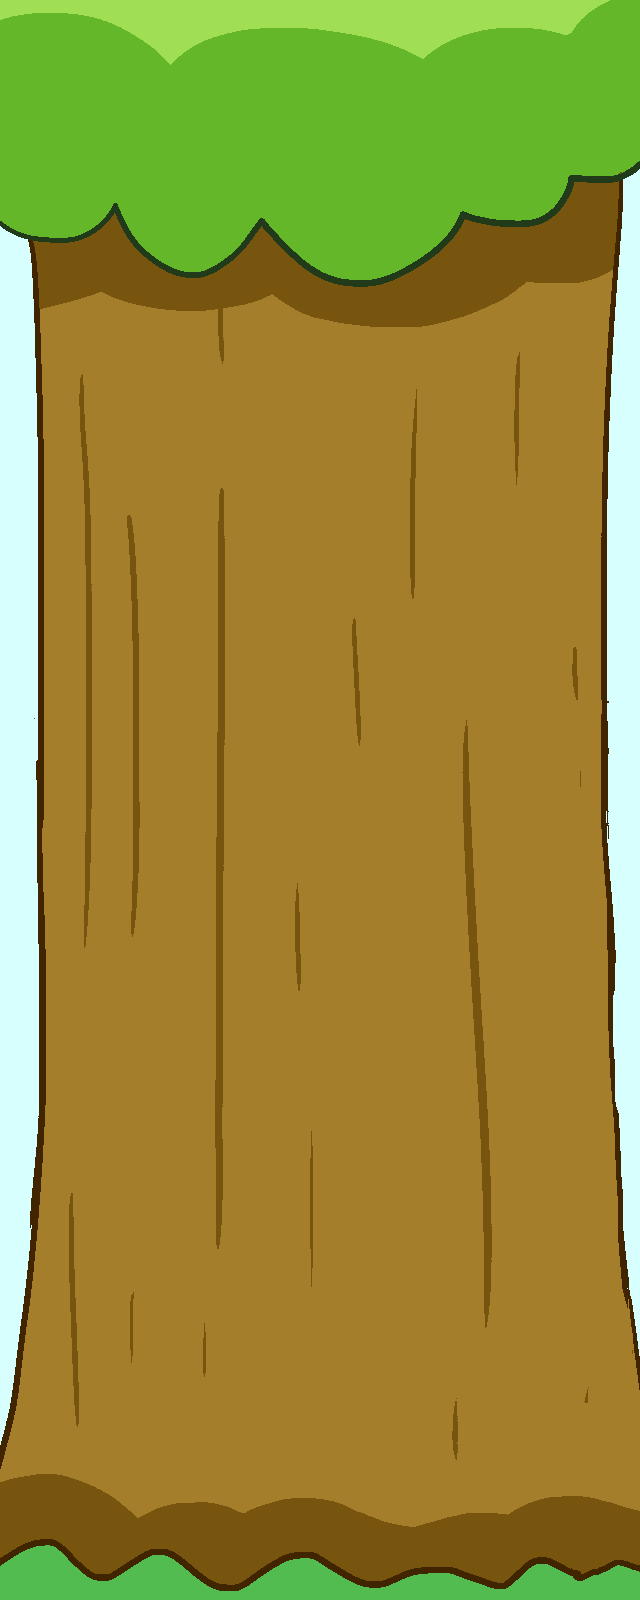
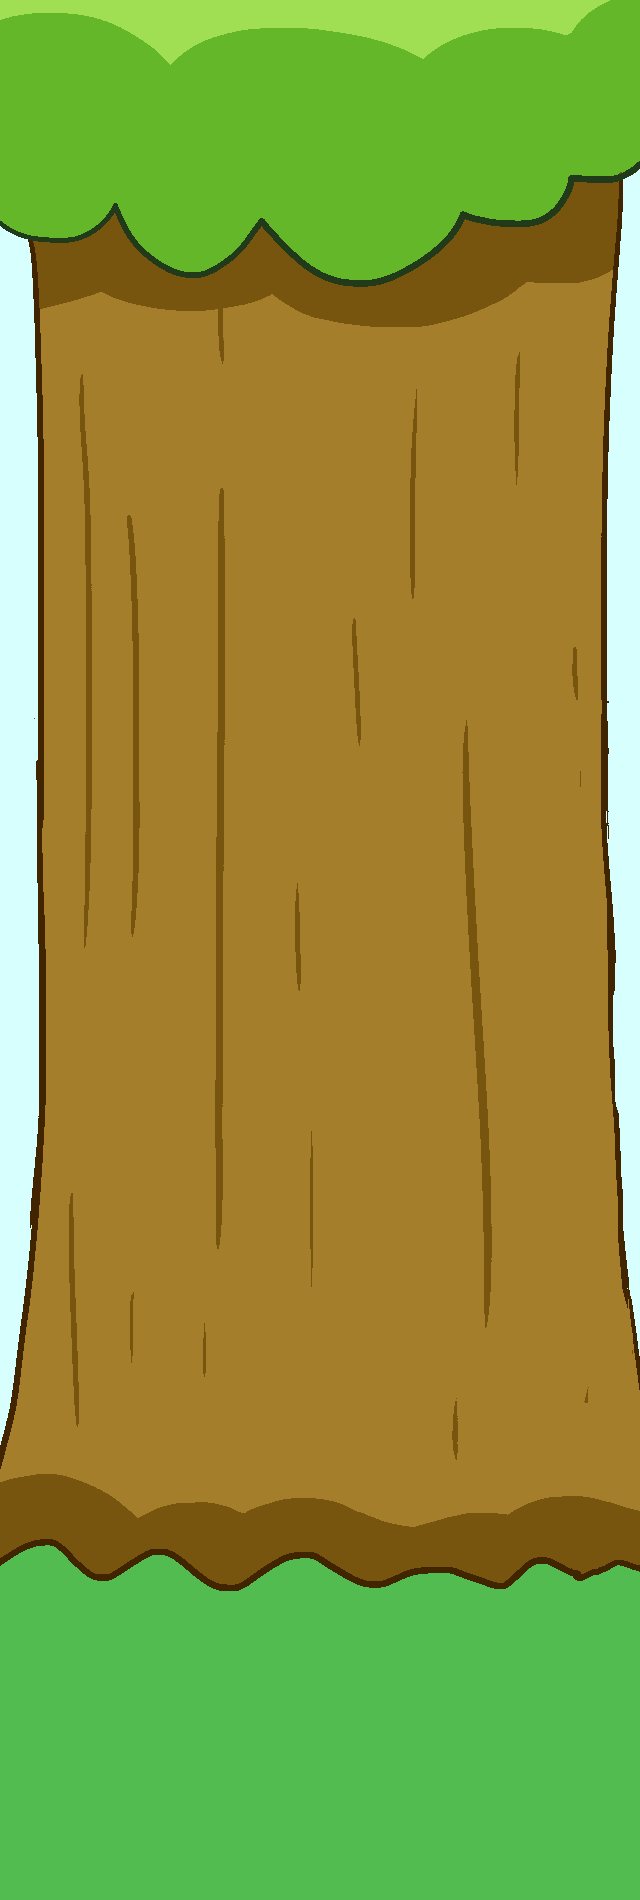
マップの変更と背景追加

diff --git a/Scenes/ScenePlay.cs b/Scenes/ScenePlay.cs
@@ -24,6 +24,8 @@ namespace Giraffe
 
         private int Flag = ResourceLoader.GetGraph("ハタアイコン.png");
         private int bar = ResourceLoader.GetGraph("マップ.png");
+        private int playbg = ResourceLoader.GetGraph("play_bg.png"); //背景描画
+
 
         public PlayMap Map { get; private set; }
 
@@ -45,6 +47,8 @@ namespace Giraffe
 
         public override void Draw()
         {
+            Vec2f pos = GetScreenPos(Vec2f.ZERO);
+            DX.DrawGraph((int)pos.X, (int)pos.Y, playbg);
             gameObjects.ForEach(obj=>obj.Draw());
             player.Draw();
 

diff --git a/Map/PlayMap.cs b/Map/PlayMap.cs
@@ -2,6 +2,7 @@
 using System;
 using System.IO;
 using Debug = System.Diagnostics.Debug;
+using DxLibDLL;
 
 namespace Giraffe
 {
@@ -25,6 +26,7 @@ namespace Giraffe
         ScenePlay scenePlay;
         public readonly int[,] MapData;
         public readonly Vec2f MapSize;
+      
 
         public PlayMap(ScenePlay scenePlay, string filePath)
         {
@@ -181,11 +183,6 @@ namespace Giraffe
 
         //    return mapData[mapX, mapY]; // 二次元配列から地形IDを取り出して返却する
         //}
-
-        public void Draw()
-        {
-           
-        }
     }
 }
 
